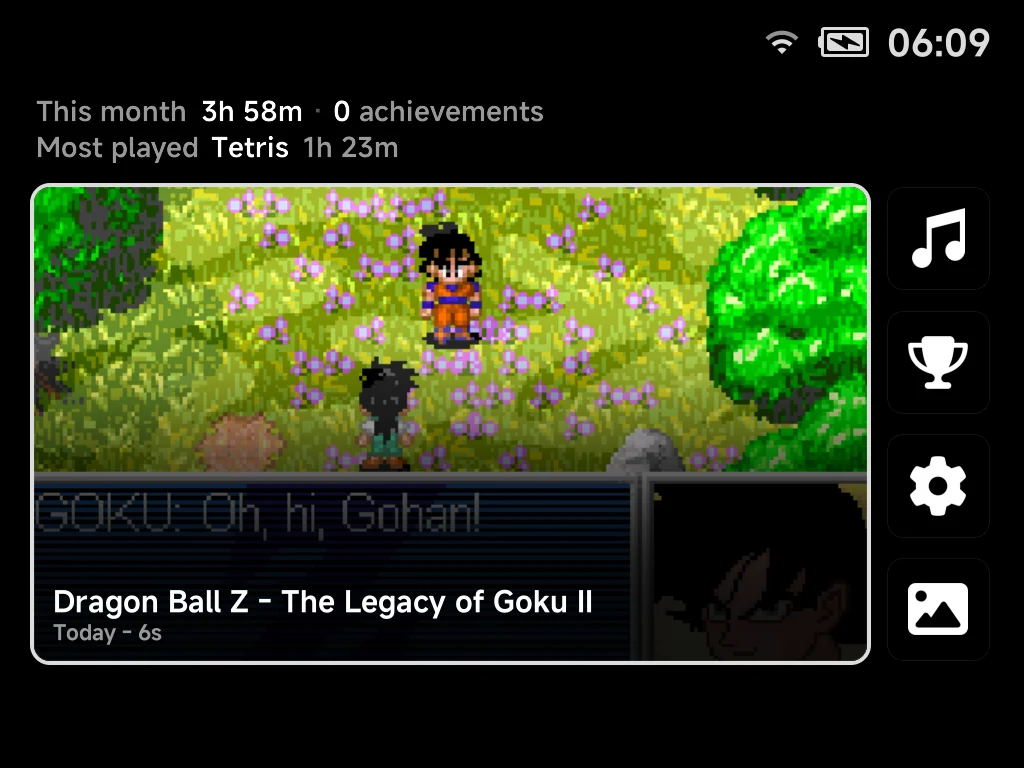
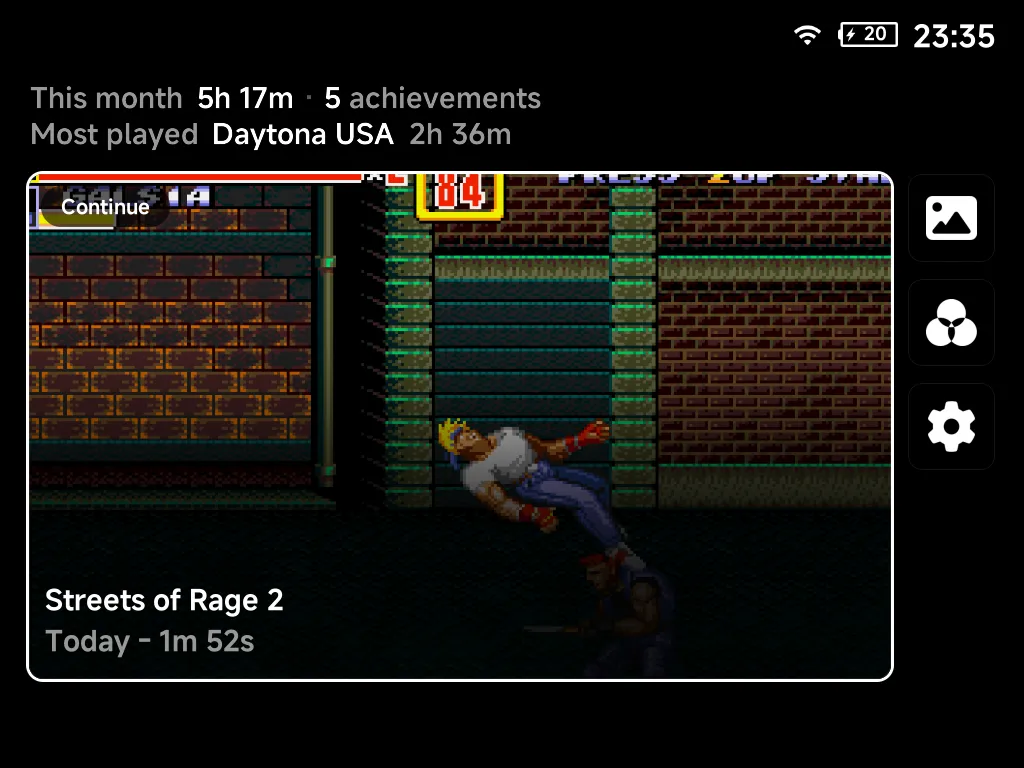
Landing page: Minimal, Grid and List Home on both devices (#26)

diff --git a/overrides/home.html b/overrides/home.html
@@ -34,8 +34,9 @@
                        alt="TrimUI Brick Pro running NX Redux" width="640" height="948">
                   <div class="nx-device__screen" aria-hidden="true">
                     <img class="nx-slide is-active" src="{{ 'assets/landing/handheld/logo.webp' | url }}" alt="">
+                    <img class="nx-slide" src="{{ 'assets/landing/handheld/home-minimal.webp' | url }}" alt="">
                     <img class="nx-slide" src="{{ 'assets/landing/handheld/home.webp' | url }}" alt="" loading="lazy">
-                    <img class="nx-slide" src="{{ 'assets/landing/handheld/consoles-list.webp' | url }}" alt="" loading="lazy">
+                    <img class="nx-slide" src="{{ 'assets/landing/handheld/home-list.webp' | url }}" alt="" loading="lazy">
                     <img class="nx-slide" src="{{ 'assets/landing/handheld/consoles-carousel.webp' | url }}" alt="" loading="lazy">
                     <img class="nx-slide" src="{{ 'assets/landing/handheld/game-list-carousel.webp' | url }}" alt="" loading="lazy">
                     <img class="nx-slide" src="{{ 'assets/landing/handheld/game-list-backdrop-v.webp' | url }}" alt="" loading="lazy">
@@ -50,8 +51,9 @@
                 <div class="nx-device__frame">
                   <div class="nx-device__screen" aria-hidden="true">
                     <img class="nx-slide is-active" src="{{ 'assets/landing/mobile/logo.webp' | url }}" alt="">
+                    <img class="nx-slide" src="{{ 'assets/landing/mobile/home-minimal.webp' | url }}" alt="">
                     <img class="nx-slide" src="{{ 'assets/landing/mobile/home.webp' | url }}" alt="" loading="lazy">
-                    <img class="nx-slide" src="{{ 'assets/landing/mobile/consoles-list.webp' | url }}" alt="" loading="lazy">
+                    <img class="nx-slide" src="{{ 'assets/landing/mobile/home-list.webp' | url }}" alt="" loading="lazy">
                     <img class="nx-slide" src="{{ 'assets/landing/mobile/consoles-carousel.webp' | url }}" alt="" loading="lazy">
                     <img class="nx-slide" src="{{ 'assets/landing/mobile/game-list-carousel.webp' | url }}" alt="" loading="lazy">
                     <img class="nx-slide" src="{{ 'assets/landing/mobile/game-list-backdrop-v.webp' | url }}" alt="" loading="lazy">
